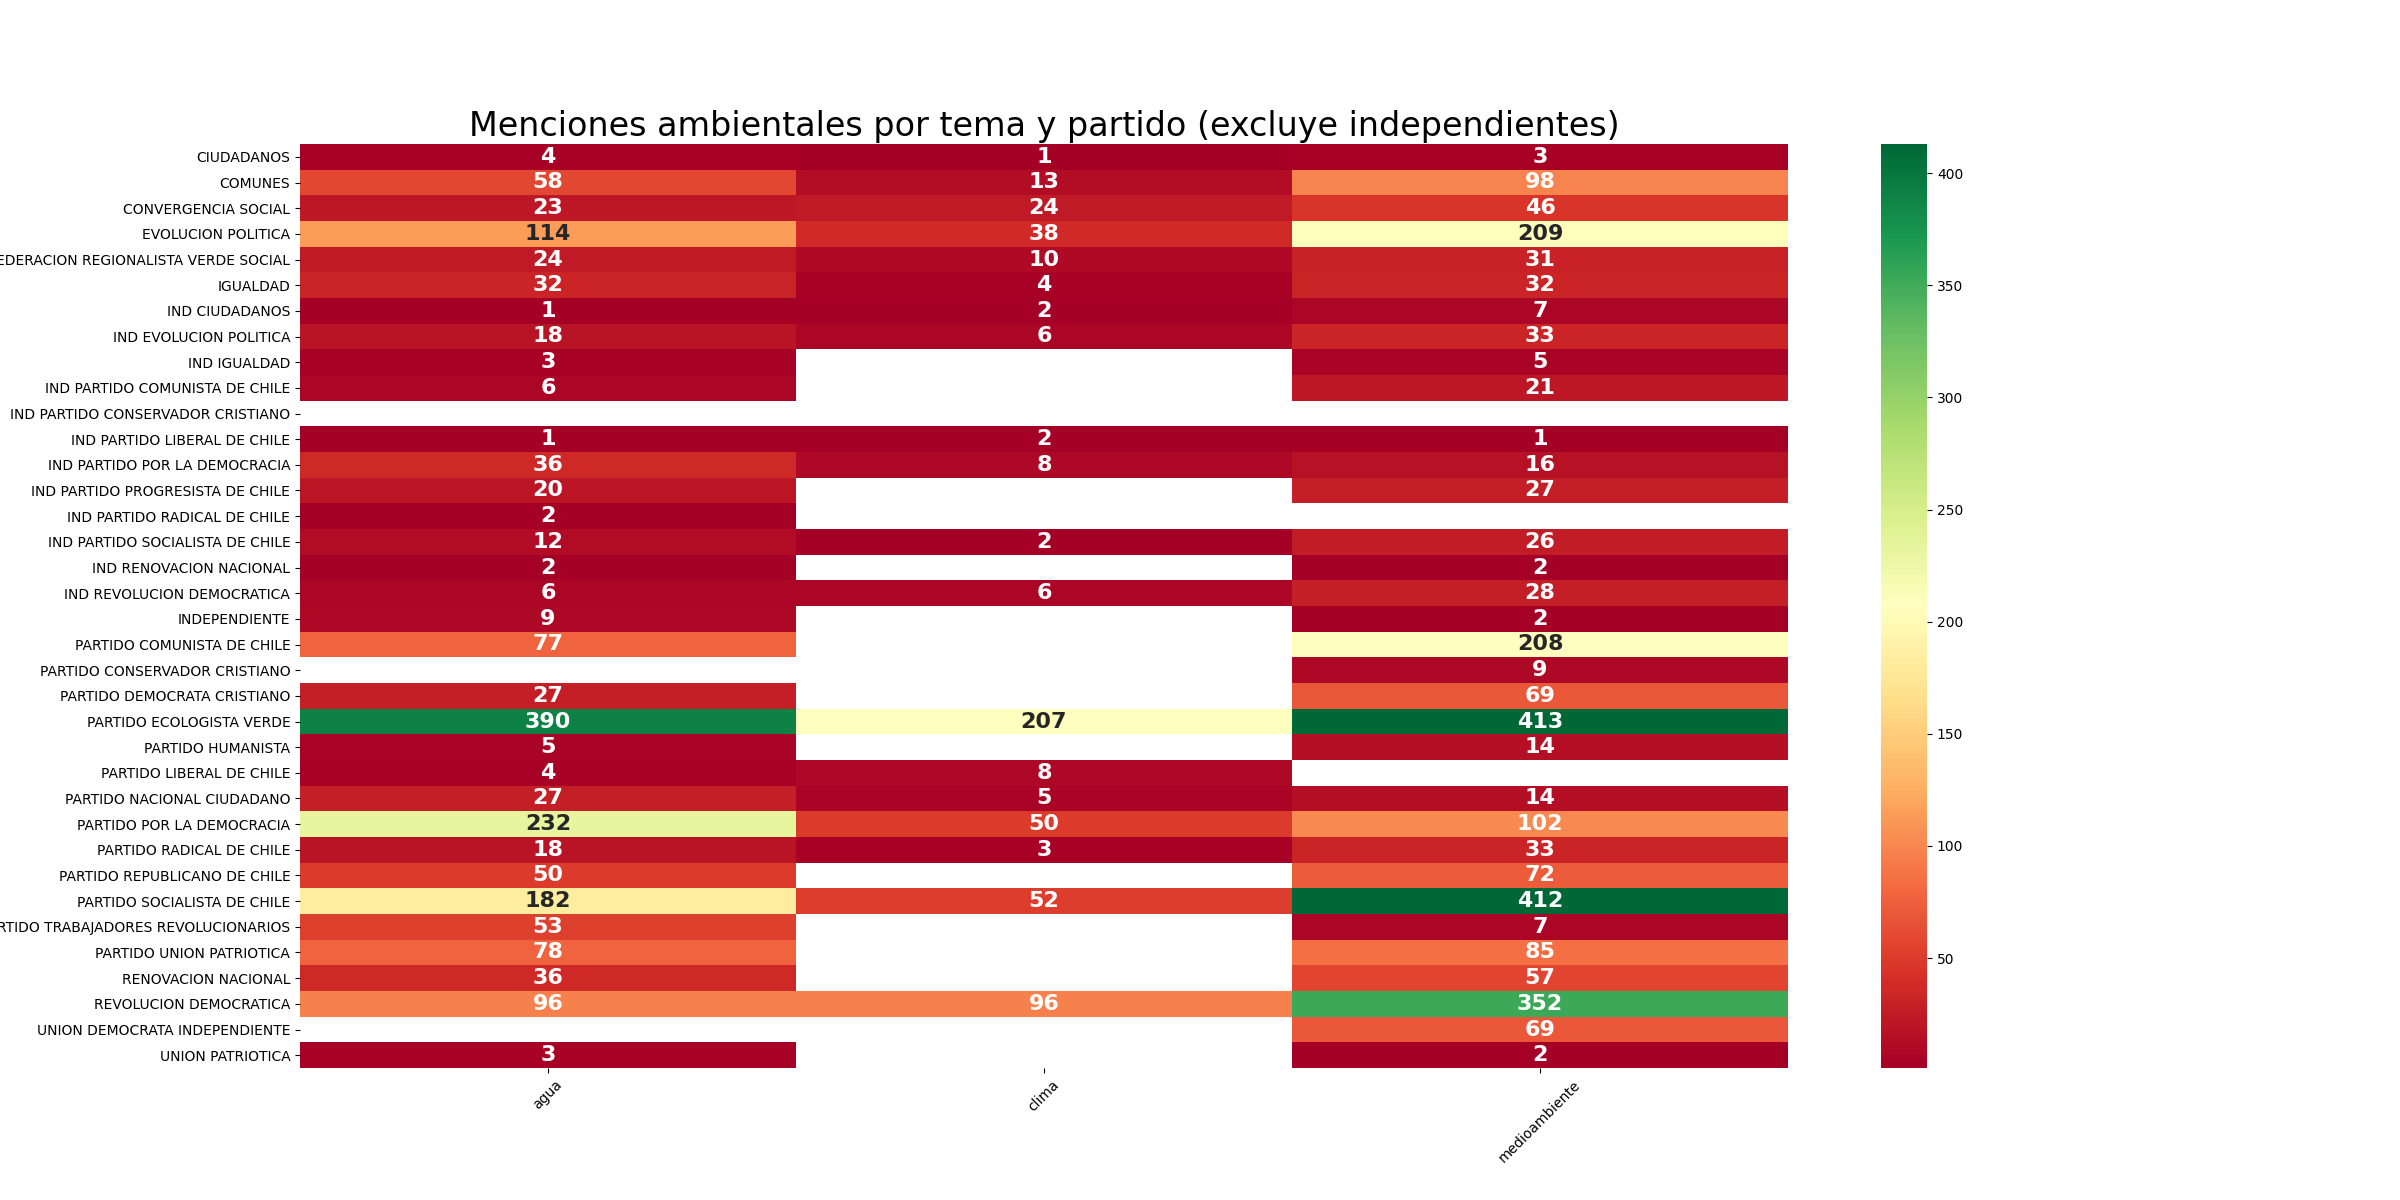
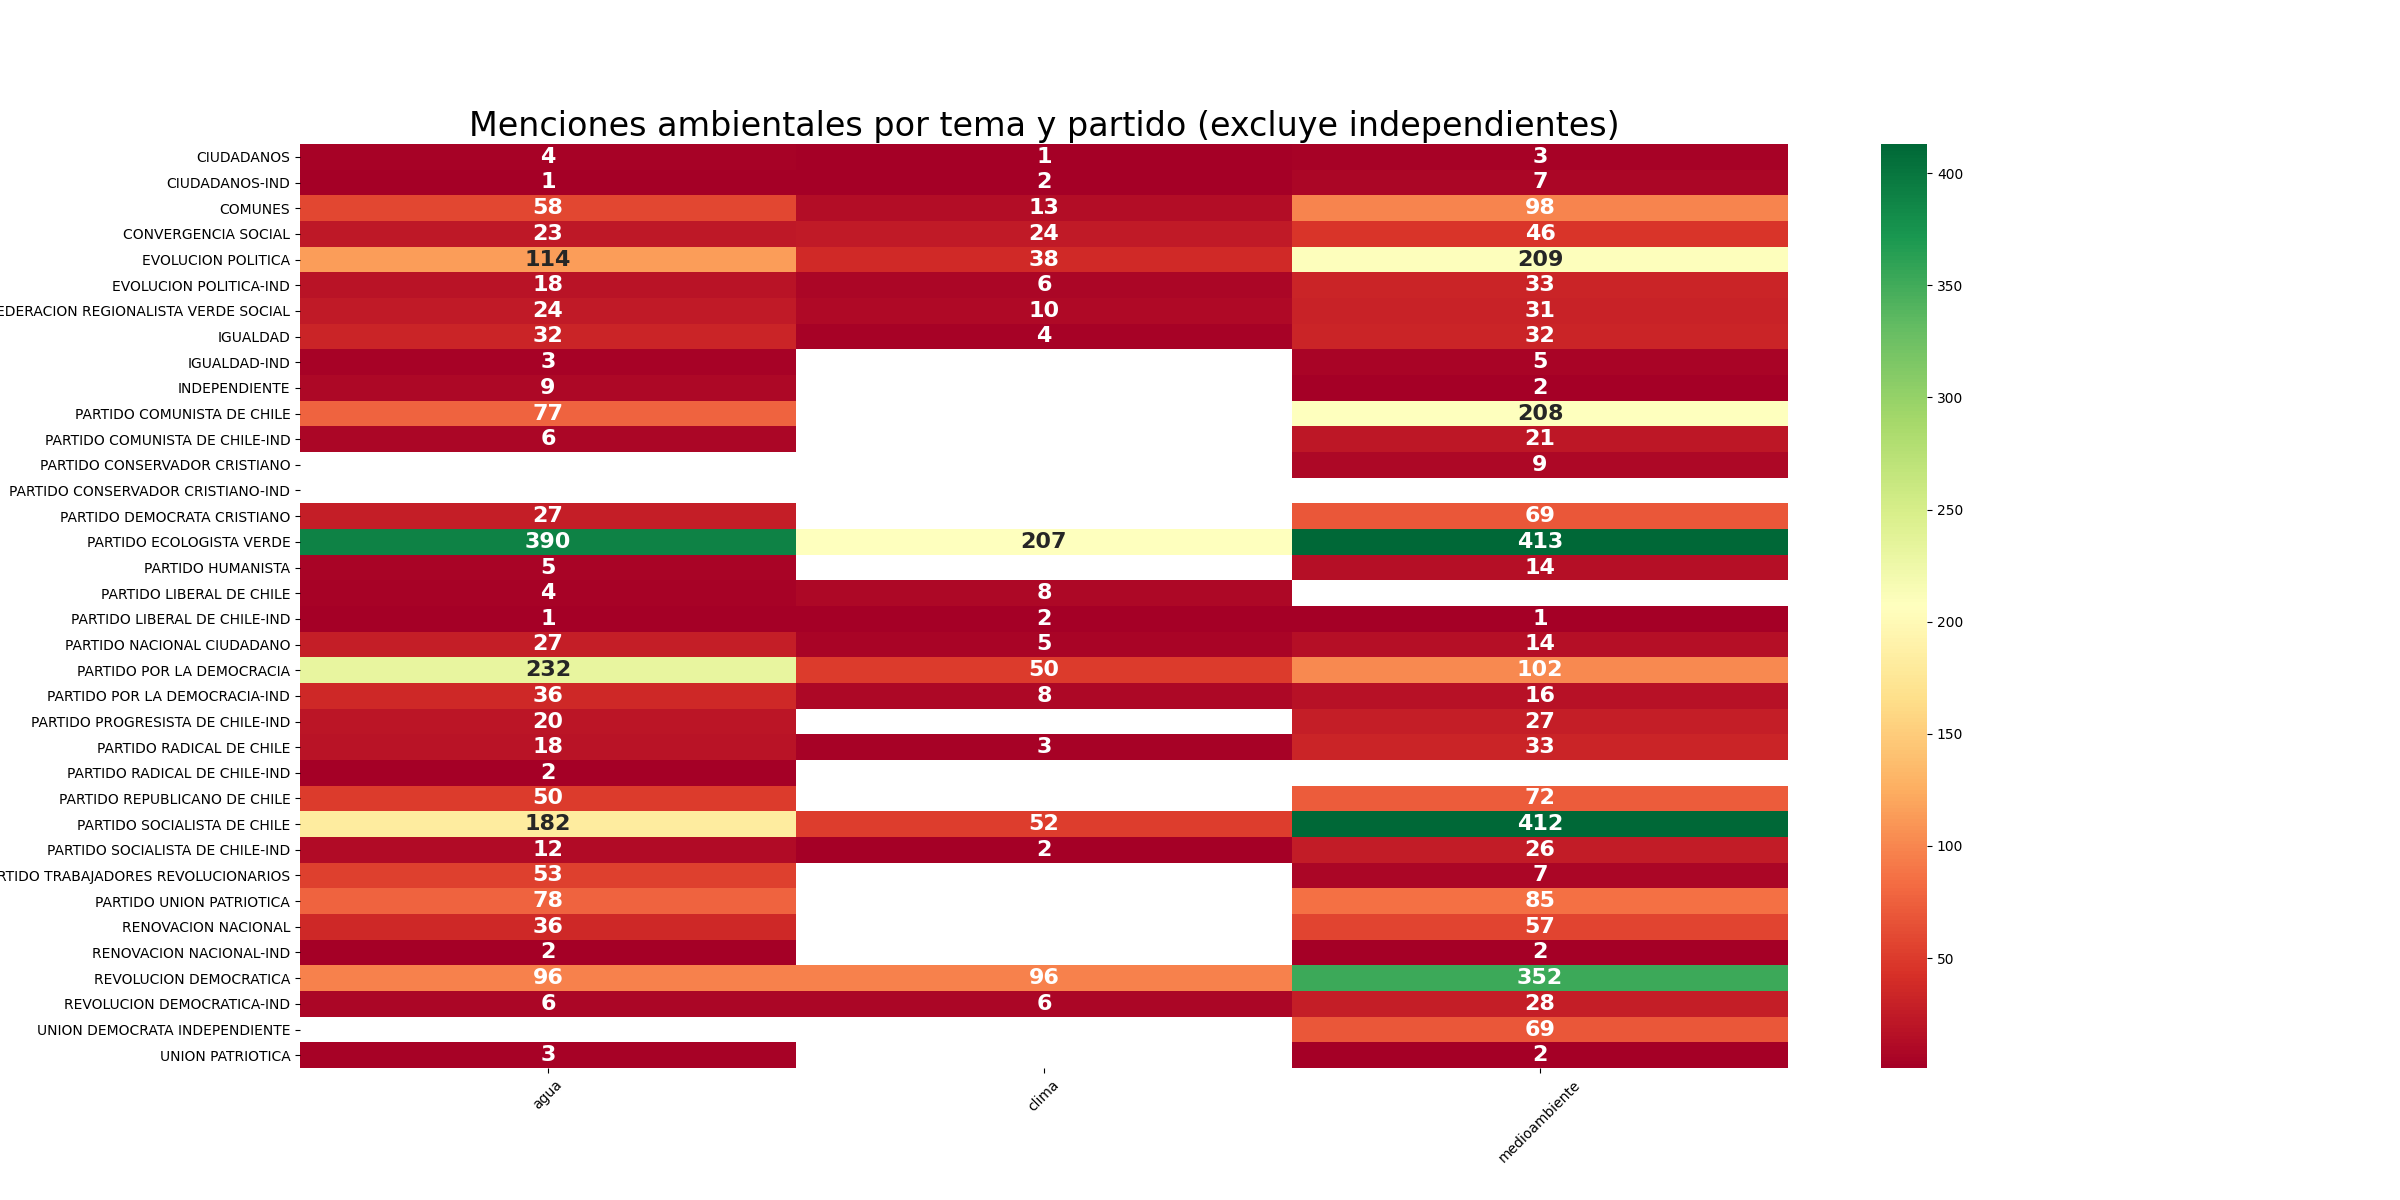
MILESTONE: fixing party plots

Changed region(s): [[0.0, 0.1233, 0.75, 0.8633]]

diff --git a/static/partidos_menciones.html b/static/partidos_menciones.html
@@ -1,2 +1,2 @@
-<IMG SRC="heatmap_partidosI.png">
+<IMG SRC="heatmap_partidos.png">
 <IMG SRC="ranking.png">

diff --git a/plotters.py b/plotters.py
@@ -38,12 +38,14 @@ for conc, mens in kw.items():
         xconc = [x+y for x,y in zip(xconc, xdf_word.values)]
     xdf[conc] = xconc
 
+xdf['partido'] = xdf.partido.apply(lambda p: p.split('IND ')[1]+'-IND' if 'IND ' in p else p) # fixer
 sdf=xdf.groupby('partido').sum()
 sdf[sdf.columns[1:]].head()
 
 temas = [k for k,v in sdf.sum().to_dict().items() if v>10 and k!='largo']
 
 partidos=[k for k,v in sdf.sum(axis=1).to_dict().items() if v>50]
+partidos = [p for p in partidos if partidos!='INDEPENDIENTES']
 psdf = sdf[sdf.index.isin(partidos)]
 fig, ax = plt.subplots(1, figsize=(24,12))
 p=sns.heatmap(psdf[temas].replace(0,np.nan), annot=True, annot_kws={'size':16, 'weight': 'bold'}, 
